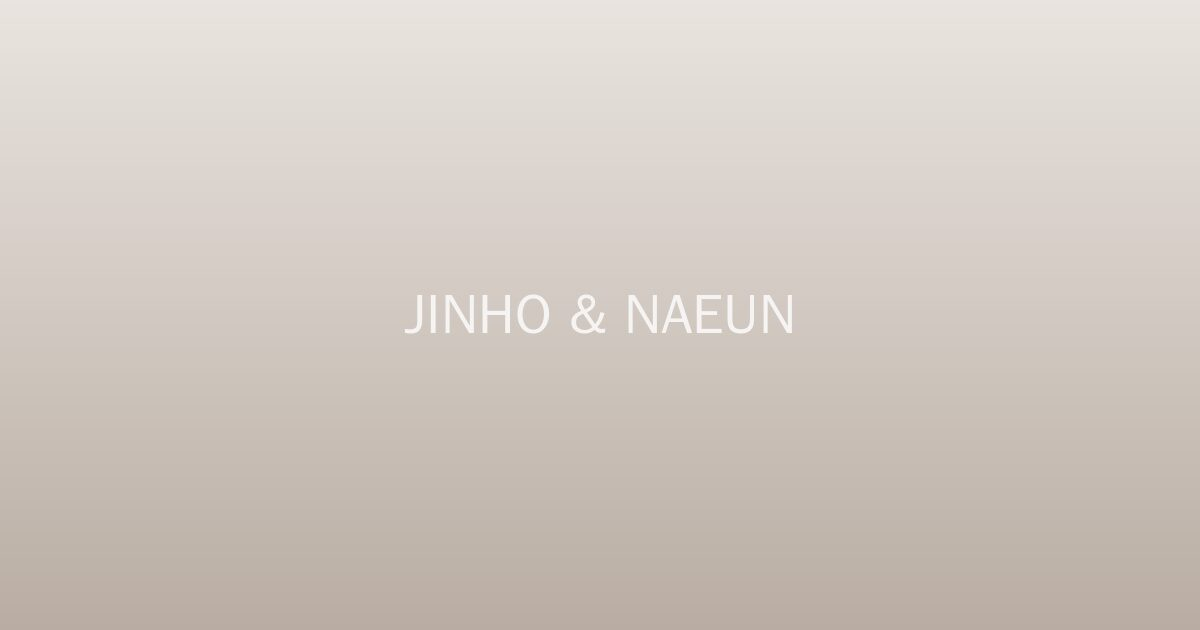
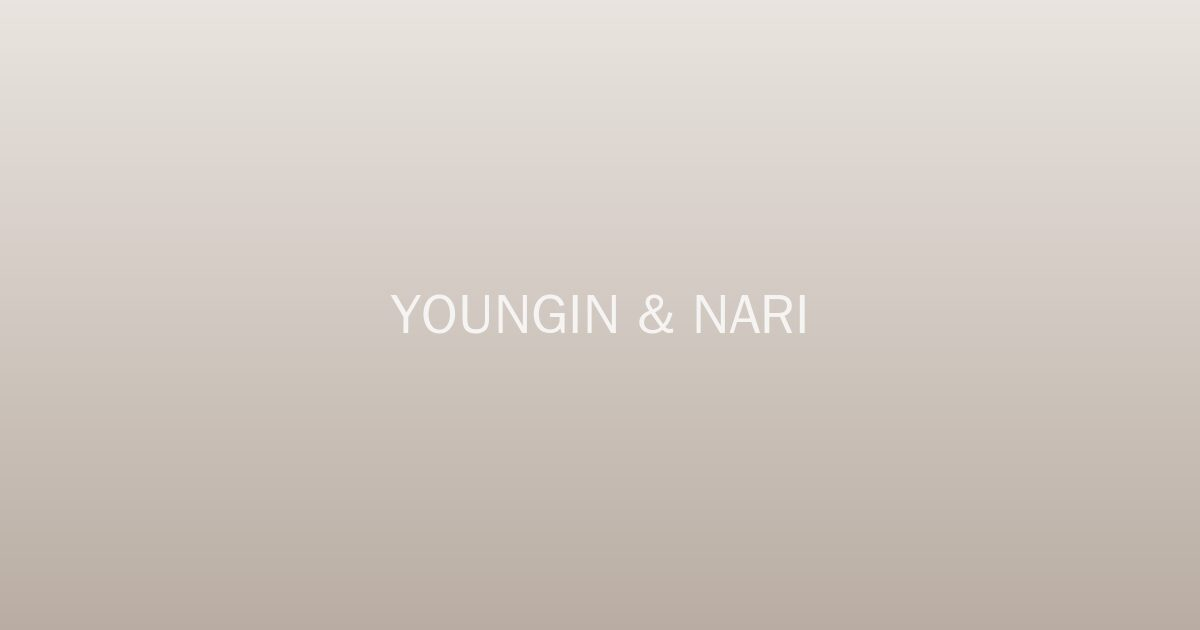
Update couple, venue and date details
Groom 고영인, bride 선나리, 2028-03-25 13:30 at 고려대학교 교우회관
권오섭홀 with subway directions from 고려대역 exit 2.

Claude-Session: https://claude.ai/code/session_01F9PirXDk7BXiiSiQJX958W

Changed region(s): [[0.3083, 0.4524, 0.6783, 0.5429]]

diff --git a/src/config/wedding.ts b/src/config/wedding.ts
@@ -20,15 +20,15 @@ export type Account = {
 
 export const wedding = {
   /** 예식 일시 (한국 시간, ISO 8601) */
-  date: "2027-10-23T12:30:00+09:00",
+  date: "2028-03-25T13:30:00+09:00",
   /** 처음 만난 날 ("함께 보낸 소중한 날" 계산용) */
   firstMetDate: "2022-01-11T00:00:00+09:00",
   /** 달력에 빨간 날로 표시할 공휴일 (YYYY-MM-DD) */
-  holidays: ["2027-10-03", "2027-10-04", "2027-10-09", "2027-10-11"],
+  holidays: ["2028-03-01"],
 
   groom: {
-    name: "김진호",
-    shortName: "진호",
+    name: "고영인",
+    shortName: "영인",
     phone: "010-0000-0000",
     relation: "아들",
     father: { name: "김건호", deceased: true, phone: "010-0000-0000" } as Person,
@@ -42,8 +42,8 @@ export const wedding = {
     ],
   },
   bride: {
-    name: "이나은",
-    shortName: "나은",
+    name: "선나리",
+    shortName: "나리",
     phone: "010-0000-0000",
     relation: "딸",
     father: { name: "이주명", deceased: true, phone: "010-0000-0000" } as Person,
@@ -58,25 +58,18 @@ export const wedding = {
   },
 
   venue: {
-    name: "더채플앳청담",
-    hall: "커티지홀, 3층",
-    address: "서울 강남구 선릉로 757",
-    tel: "02-0000-0000",
+    name: "고려대학교 교우회관",
+    hall: "권오섭홀",
+    address: "서울 성북구 개운사길 76",
+    /** 비워두면 표시하지 않음 */
+    tel: "" as string,
     /** 지도 앱 딥링크/검색에 사용되는 좌표 */
-    lat: 37.5226,
-    lng: 127.0418,
+    lat: 37.5893,
+    lng: 127.0335,
     transport: [
       {
         title: "지하철",
-        lines: ["7호선 강남구청역 3-1번 출구 도보 10분", "수인분당선 압구정로데오역 4번 출구 도보 7분"],
-      },
-      {
-        title: "버스",
-        lines: ["간선 301, 342, 472 · 지선 3011, 4412", "‘강남구청’ 정류장 하차"],
-      },
-      {
-        title: "주차",
-        lines: ["건물 내 지하 주차장 이용 (2시간 무료)"],
+        lines: ["6호선 고려대역 2번 출구 도보 5분"],
       },
     ],
   },
@@ -111,12 +104,12 @@ export const wedding = {
 
   accounts: {
     groom: [
-      { bank: "신한은행", number: "110-000-000000", holder: "김진호" },
+      { bank: "신한은행", number: "110-000-000000", holder: "고영인" },
       { bank: "국민은행", number: "000000-00-000000", holder: "김건호" },
       { bank: "우리은행", number: "1002-000-000000", holder: "이미자" },
     ] as Account[],
     bride: [
-      { bank: "하나은행", number: "000-000000-00000", holder: "이나은" },
+      { bank: "하나은행", number: "000-000000-00000", holder: "선나리" },
       { bank: "농협", number: "000-0000-0000-00", holder: "유수지" },
     ] as Account[],
   },
@@ -126,8 +119,8 @@ export const wedding = {
 
   /** 공유/검색 미리보기 */
   meta: {
-    title: "김진호 ♥ 이나은 결혼합니다",
-    description: "2027년 10월 23일 토요일 낮 12시 30분, 더채플앳청담 커티지홀",
+    title: "고영인 ♥ 선나리 결혼합니다",
+    description: "2028년 3월 25일 토요일 오후 1시 30분, 고려대학교 교우회관 권오섭홀",
     ogImage: "/images/og.jpg",
   },
 } as const;
